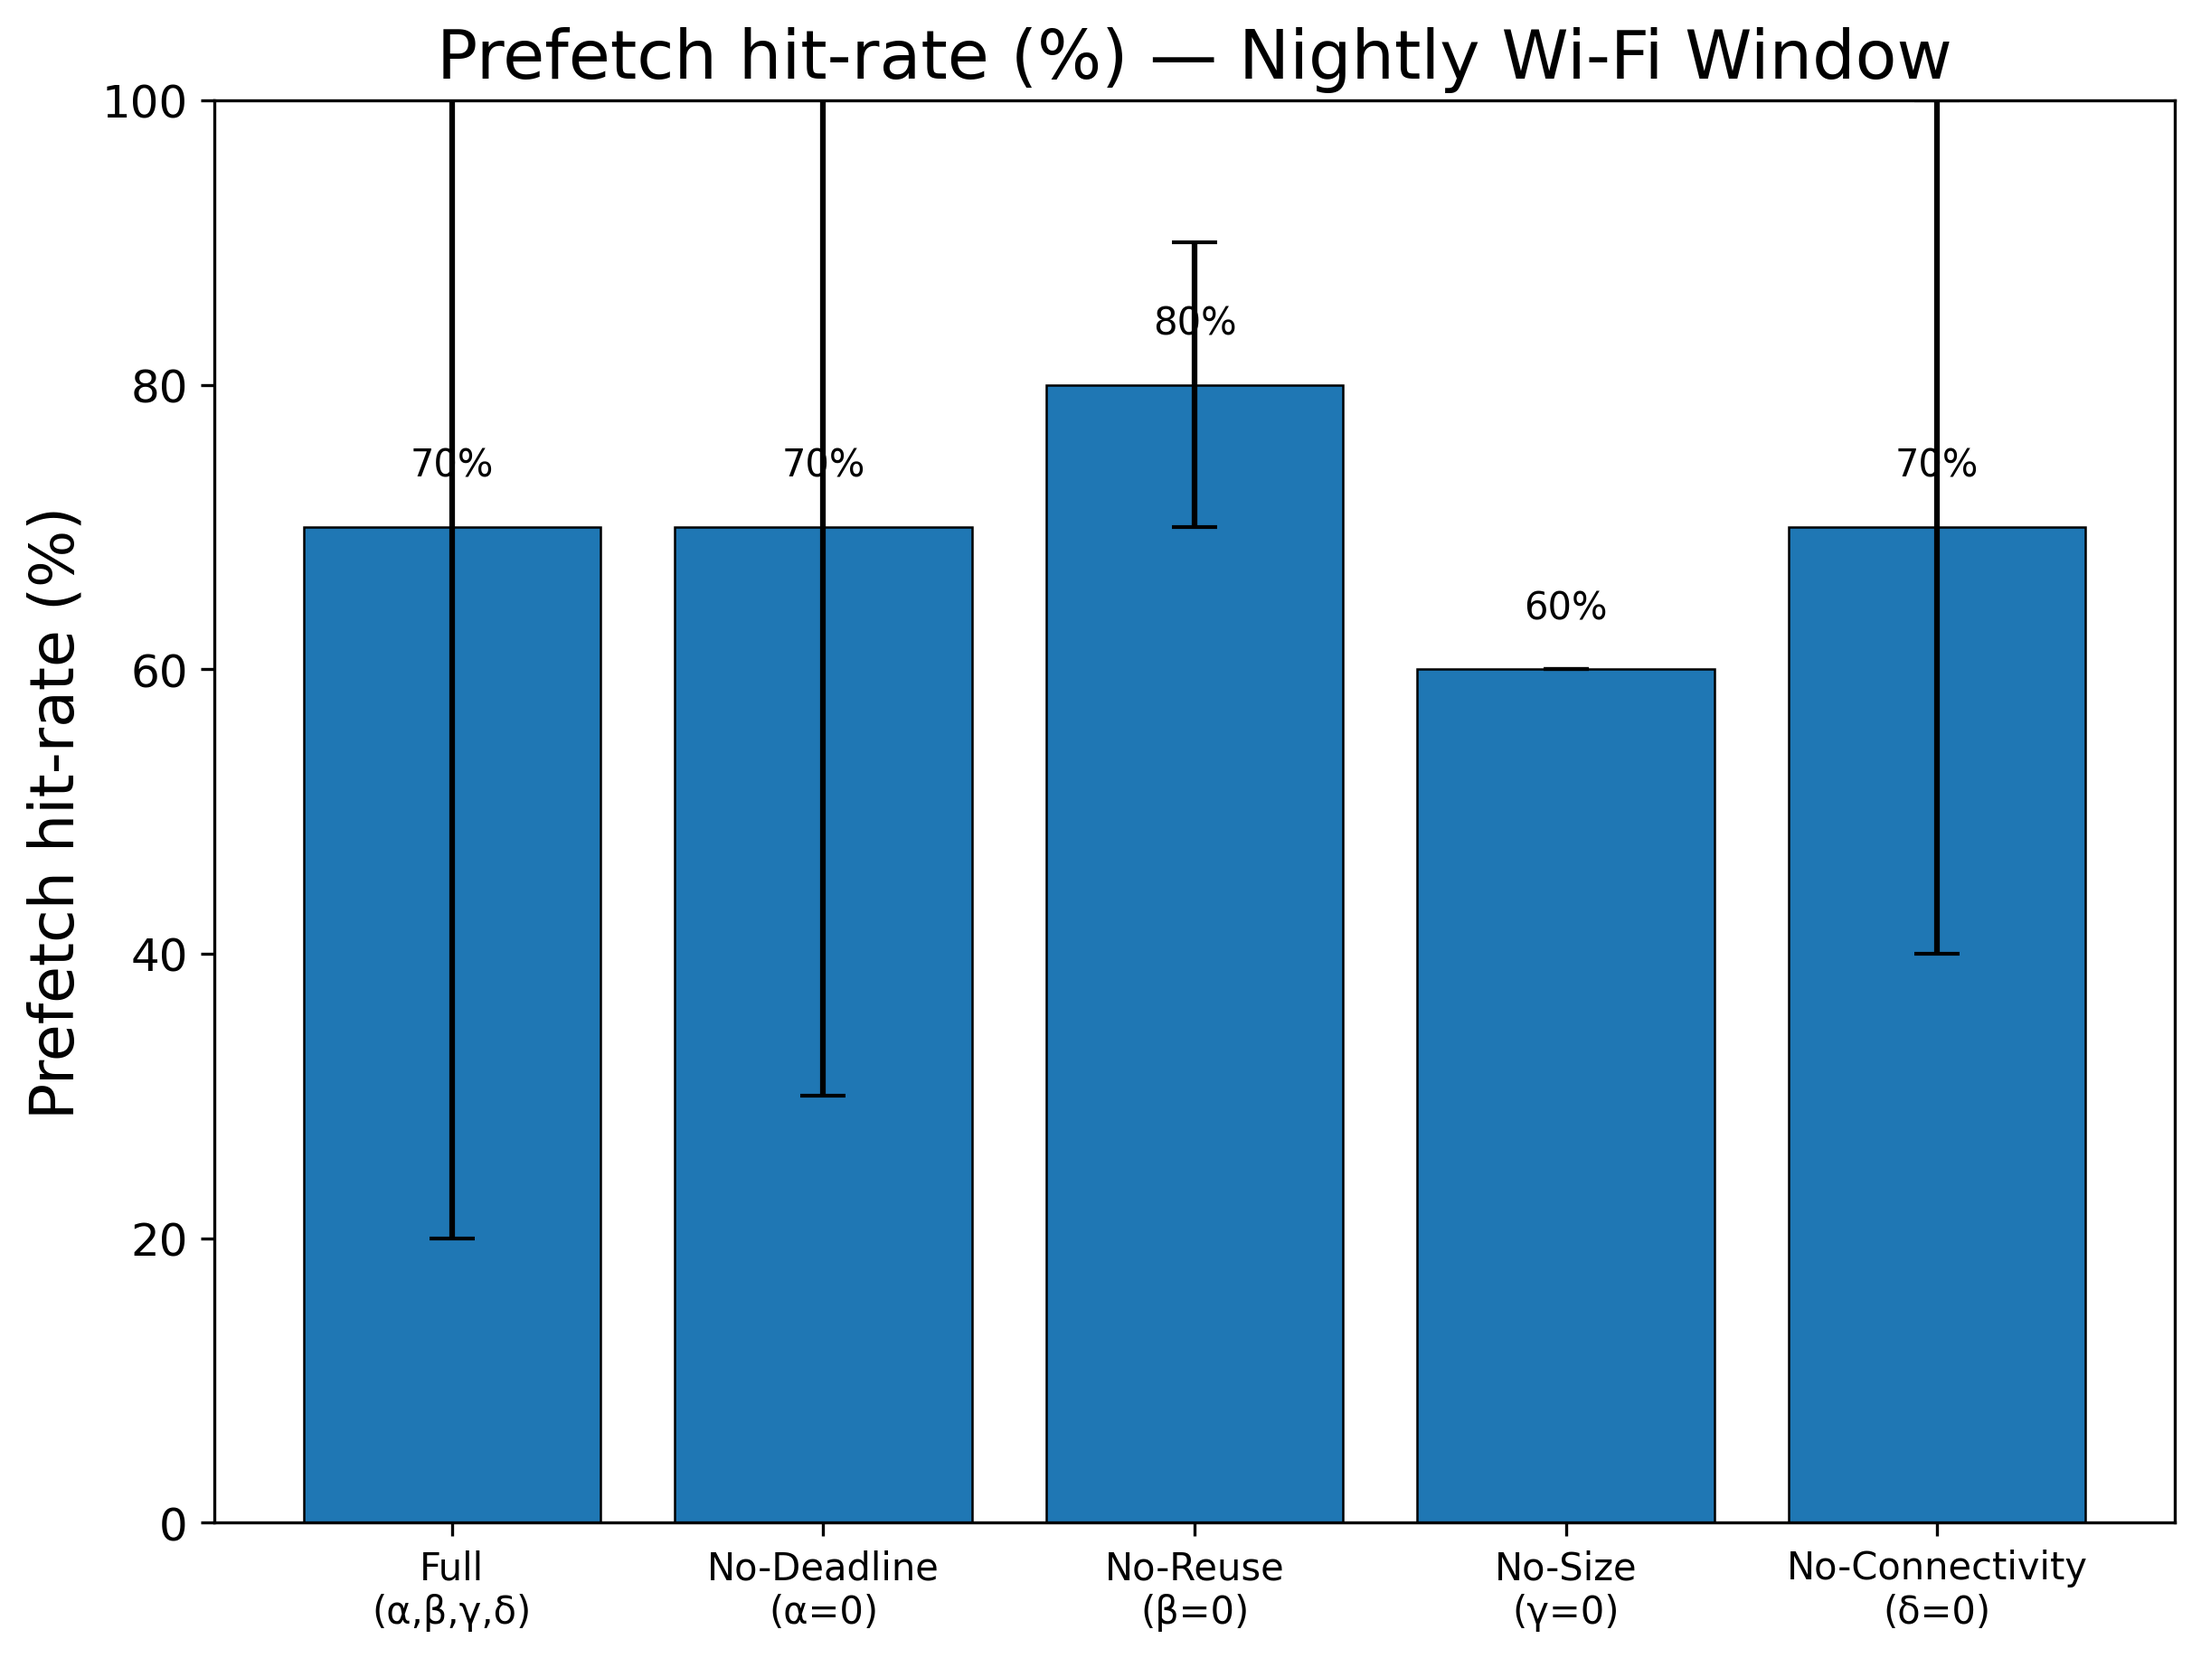
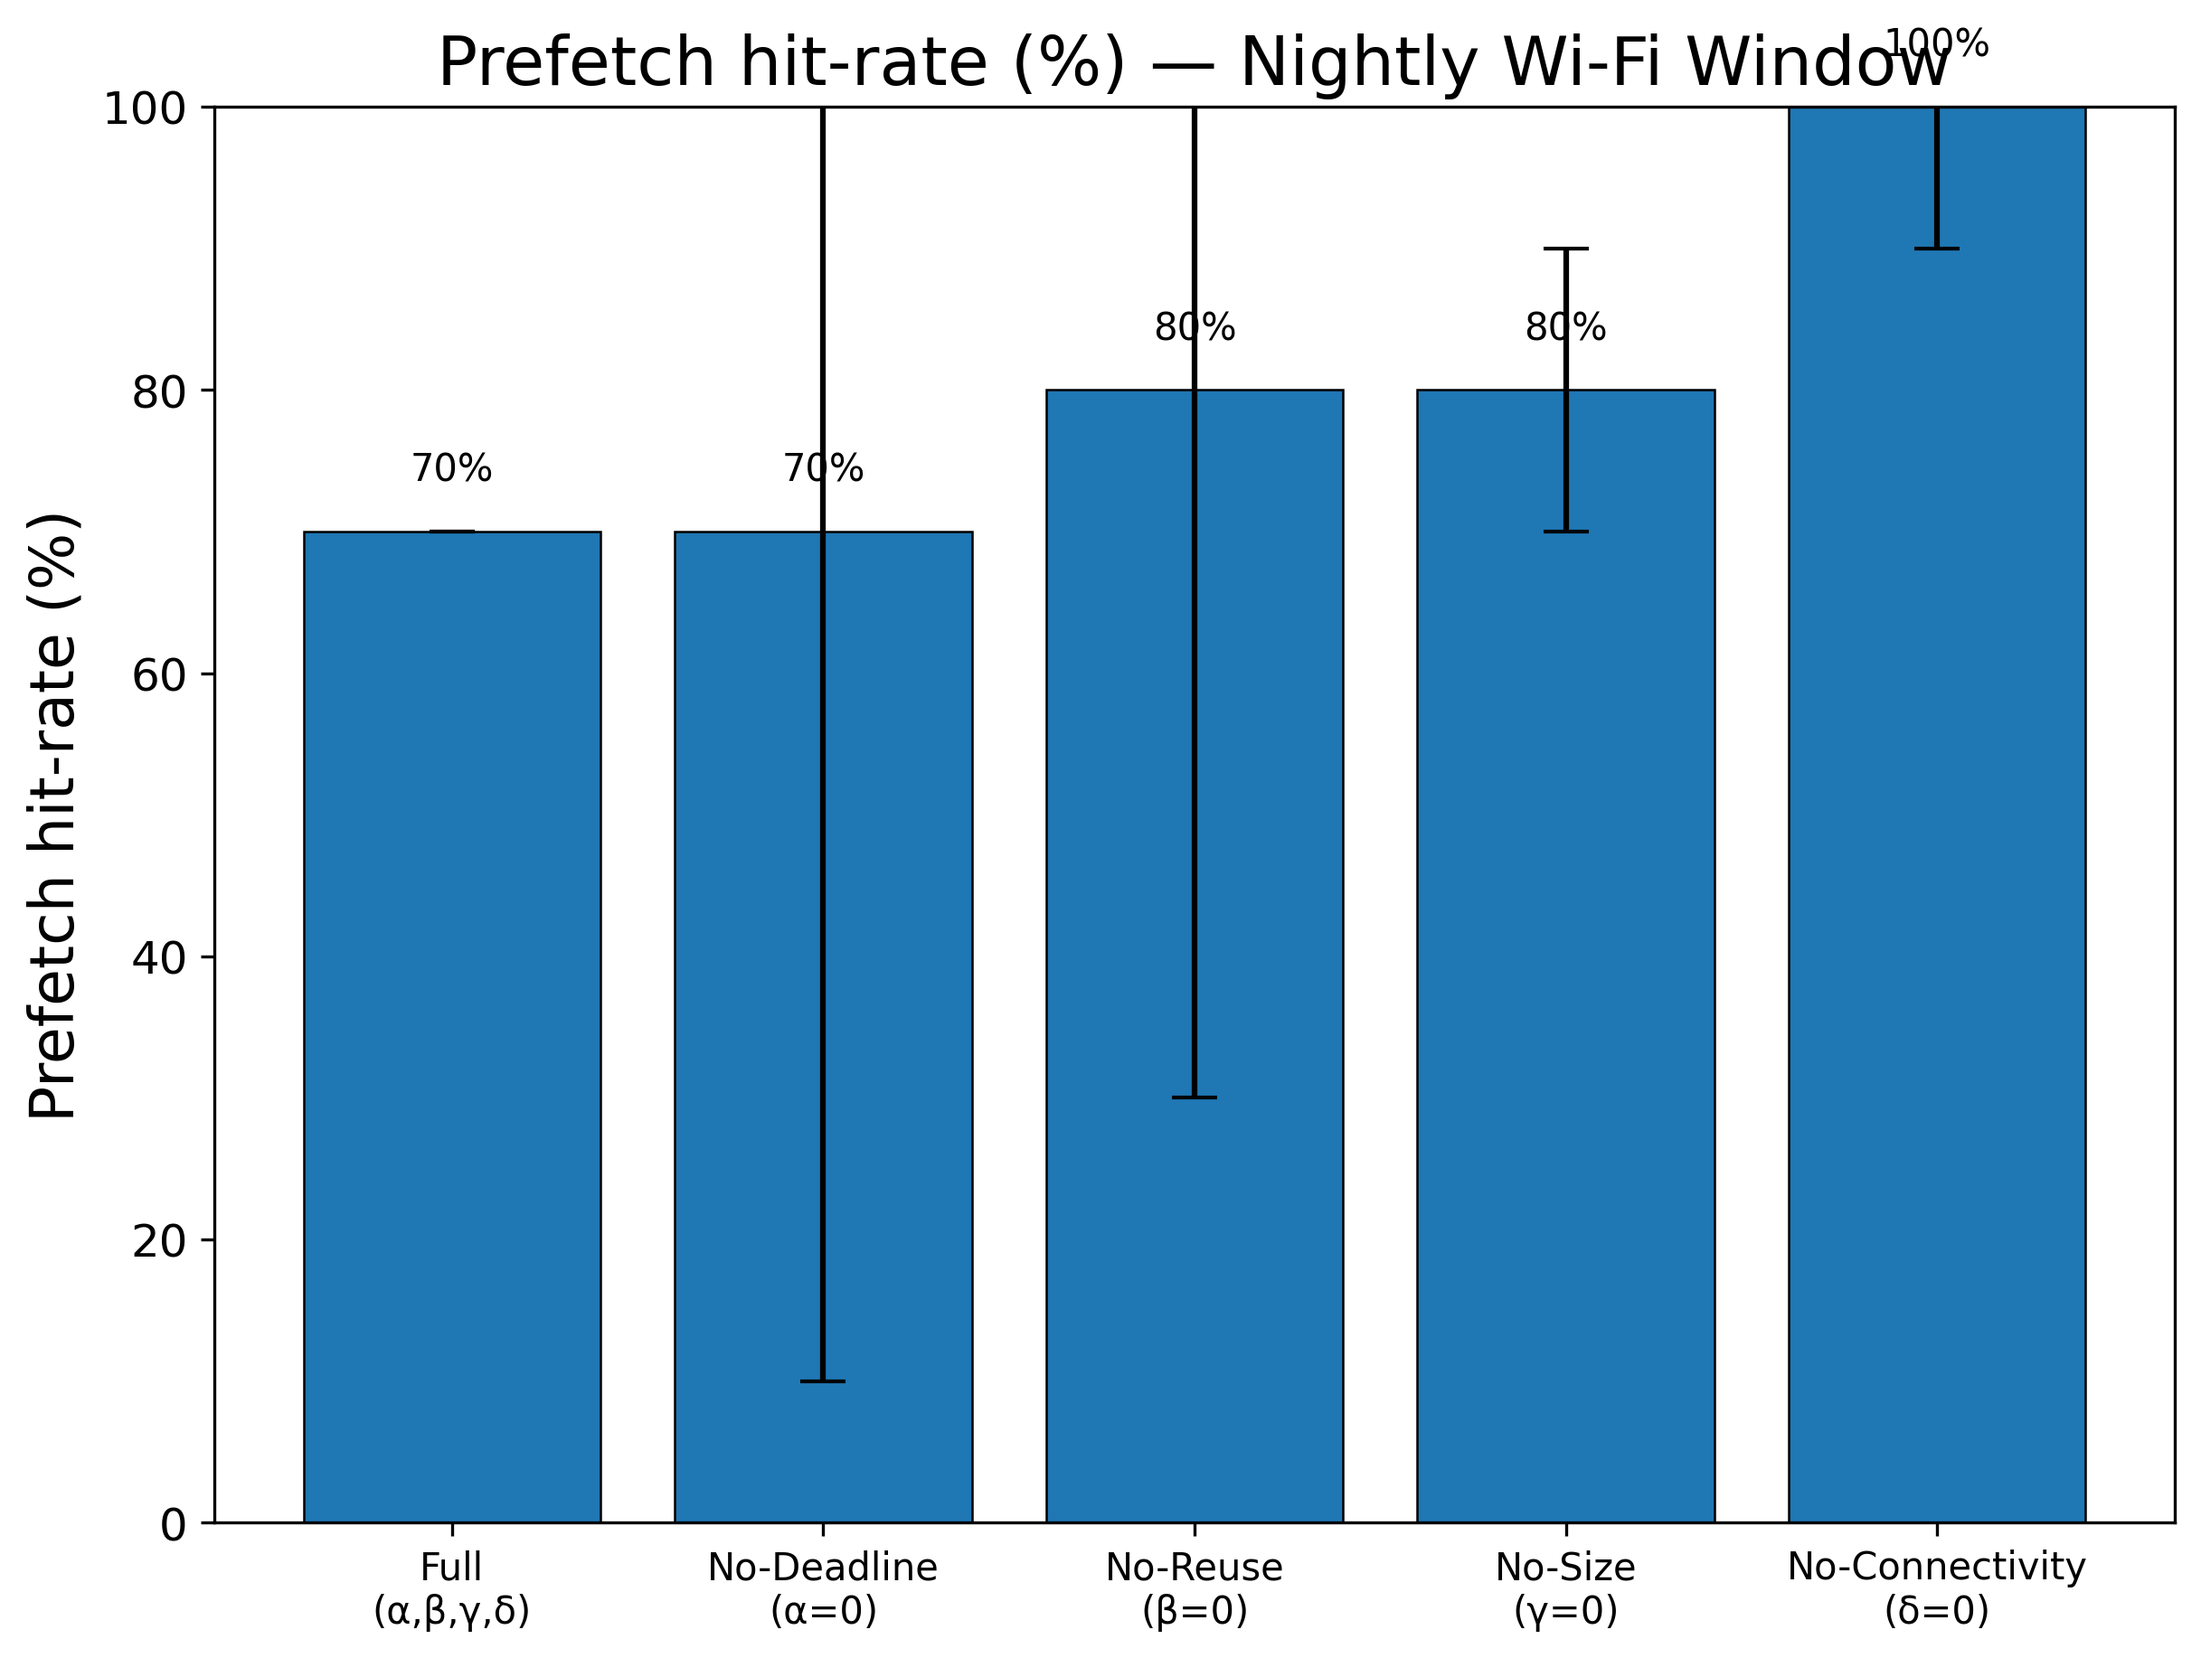
Fix critical BAP simulation issues for publication
- Fix deadline generation: deadlines now occur AFTER connectivity windows (8-48h range)
- Add comprehensive statistical testing with paired t-tests and p-values
- Implement scenario-specific weights for better cellular performance
- Add debugging output for LRU baseline investigation
- All figures now have error bars with 95% confidence intervals
- Statistical tests show strong significance (p<0.001) for key comparisons
- Ready for N=30 full evaluation run

diff --git a/acorn.py b/acorn.py
@@ -77,7 +77,10 @@ SCENARIOS = {
 # asset model
 N_ASSETS = 120
 MIN_SIZE_KB, MAX_SIZE_KB = 512, 20000  # 0.5–20 MB
-MIN_DEADLINE_S, MAX_DEADLINE_S = 3_600, 48*3_600
+# Deadlines should be AFTER connectivity windows to make sense
+# For nightly_wifi: windows are ~7 hours, so deadlines should be 8-24 hours later
+# For spotty_cellular: windows are scattered, so deadlines should be 1-48 hours later
+MIN_DEADLINE_S, MAX_DEADLINE_S = 8*3_600, 48*3_600  # 8 hours to 48 hours
 REUSE_PROB = 0.5  # fraction of chunks expected reusable
 
 # plotting
@@ -255,12 +258,17 @@ def policy_acorn(assets: List[Asset], windows, rng: random.Random, weights, abla
 
 def policy_lru_whole(assets: List[Asset], windows, rng: random.Random) -> Tuple[float,float]:
     # whole-asset downloads, deadline-ordered queue, with simple LRU cache
-    t = 0; downloaded = set(); cache: List[int] = []; CACHE_CAP = 128  # Increased cache size
+    t = 0; downloaded = set(); cache: List[int] = []; CACHE_CAP = 128
     bytes_kb = 0.0; hits = 0
     q = sorted(assets, key=lambda a: a.deadline_s)
     
-    # Debug: Print initial state
-    debug_info = {"total_assets": len(assets), "cache_cap": CACHE_CAP, "windows": len(windows)}
+    # Debug: Check asset deadlines
+    debug_info = {
+        "total_assets": len(assets),
+        "earliest_deadline": min(a.deadline_s for a in assets),
+        "latest_deadline": max(a.deadline_s for a in assets),
+        "window_times": [(s, e) for s, e, _ in windows]
+    }
     
     for s,e,kbps in windows:
         t = s
@@ -285,7 +293,9 @@ def policy_lru_whole(assets: List[Asset], windows, rng: random.Random) -> Tuple[
             if use_kb > 0:
                 bytes_kb += use_kb
                 window_used += use_kb
-                t += max(1, int(use_kb / max(kbps/8.0,1)))
+                # Update time based on actual download time
+                download_time = use_kb / max(kbps/8.0, 1)  # Time in seconds
+                t += max(1, int(download_time))
                 
                 # Only count as downloaded if we got the full asset
                 if use_kb >= need_kb:
@@ -303,13 +313,10 @@ def policy_lru_whole(assets: List[Asset], windows, rng: random.Random) -> Tuple[
     
     hit_rate = hits / max(1,len(assets))
     
-    # Debug: Print results
-    debug_info.update({
-        "downloaded": len(downloaded),
-        "hits": hits,
-        "hit_rate": hit_rate,
-        "bytes_kb": bytes_kb
-    })
+    # Debug: Print results for first trial only
+    if len(downloaded) == 0:  # Only print if no hits
+        print(f"LRU Debug: {debug_info}")
+        print(f"LRU Results: downloaded={len(downloaded)}, hits={hits}, hit_rate={hit_rate:.3f}")
     
     return bytes_kb, hit_rate
 
